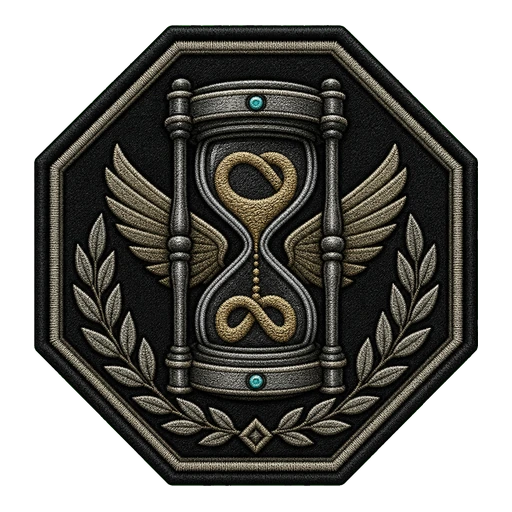
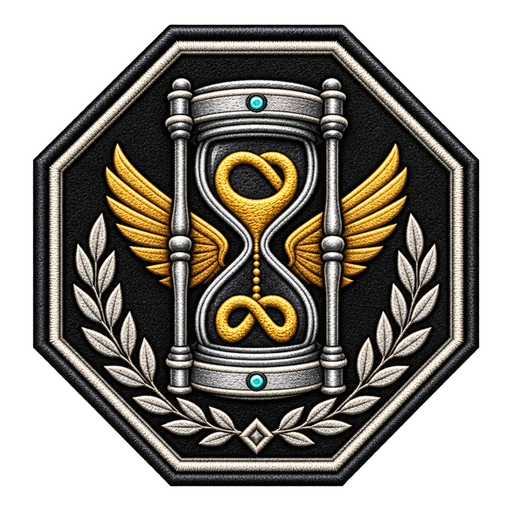
Refresh emblem colors and retire three badges

diff --git a/app/page.tsx b/app/page.tsx
@@ -1501,7 +1501,6 @@ function playerBadges(profile: Profile, profiles: Profile[], matches: PadelMatch
     },
     recordBadge("summit", "gold", "summit", "RE DELLA VETTA", "Chi ha trascorso più partite al primo posto.", "Conta ogni partita dopo la quale il giocatore è rimasto o salito al numero uno.", own.firstPlaceMatches, maxOf((item) => item.firstPlaceMatches), "turni in vetta"),
     recordBadge("flame", "red", "flame", "FIAMMA VINCENTE", "La serie di vittorie più lunga.", "Ottieni il maggior numero di vittorie consecutive nella cronologia.", own.bestWinStreak, maxOf((item) => item.bestWinStreak), "vittorie di fila"),
-    recordBadge("sets", "red", "sets", "SET D'ACCIAIO", "La serie di set vinti consecutivamente più lunga.", "I set restano consecutivi anche attraversando partite diverse.", own.bestSetWinStreak, maxOf((item) => item.bestSetWinStreak), "set di fila"),
     {
       id: "turkey", tone: "bronze", glyph: "turkey", label: "TACCHINO DI CODA",
       meaning: "Il giocatore attualmente ultimo in classifica.",
@@ -1512,8 +1511,6 @@ function playerBadges(profile: Profile, profiles: Profile[], matches: PadelMatch
       unlocked: isLast,
     },
     recordBadge("hook", "bronze", "hook", "AL GANCIO", "La serie di sconfitte consecutive più lunga.", "Detieni il record storico di sconfitte una dopo l'altra.", own.bestLoseStreak, maxOf((item) => item.bestLoseStreak), "sconfitte di fila"),
-    recordBadge("dominator", "ice", "dominator", "DOMINATORE", "Chi ha vinto più partite senza concedere set.", "Conta le vittorie concluse 2–0.", own.straightSetWins, maxOf((item) => item.straightSetWins), "vittorie 2–0"),
-    recordBadge("comeback", "ice", "comeback", "RE DELLA RIMONTA", "Chi ha ribaltato più partite dopo aver perso il primo set.", "Conta soltanto le vittorie ottenute partendo da 0–1 nei set; i pareggi sono esclusi.", own.comebackWins, maxOf((item) => item.comebackWins), "rimonte"),
     recordBadge("marathon", "steel", "marathon", "MARATONETA", "Il giocatore con più presenze.", "Detieni il maggior numero totale di partite disputate.", own.matchesPlayed, maxOf((item) => item.matchesPlayed), "partite"),
     {
       id: "duo", tone: "violet", glyph: "duo", label: "COPPIA D'ORO",
@@ -1605,7 +1602,7 @@ function BadgeTile({ badge, ghost }: { badge: Badge; ghost: boolean }) {
         {emblem ? (
           <Emblem name={emblem} className="badge-art" />
         ) : (
-          <Image className="badge-art" src={`${basePath}/emblems/${badge.glyph}.webp?v=prestige-20261011`} alt="" width={128} height={168} />
+          <Image className="badge-art" src={`${basePath}/emblems/${badge.glyph}.webp?v=rework-20261011`} alt="" width={128} height={168} />
         )}
       </div>
       <aside className="badge-tooltip" role="tooltip">
